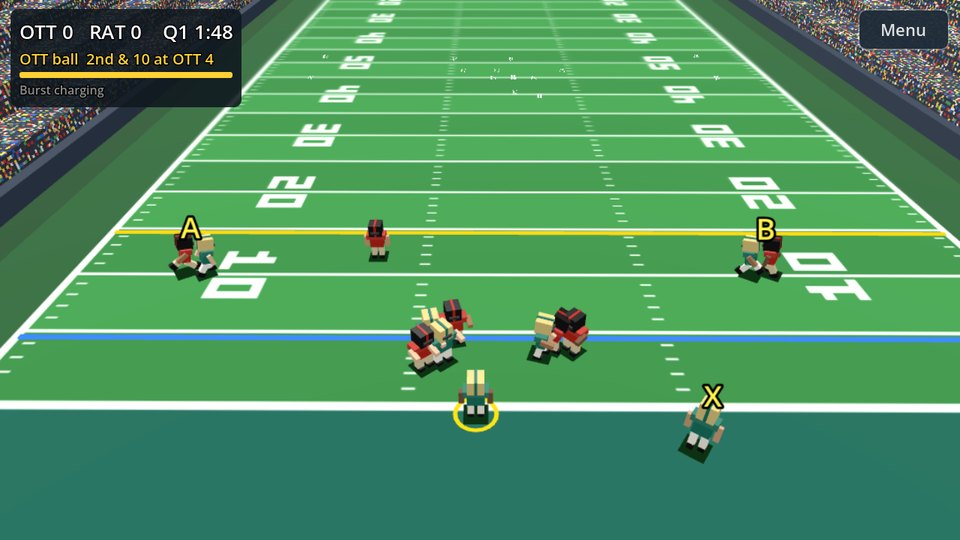
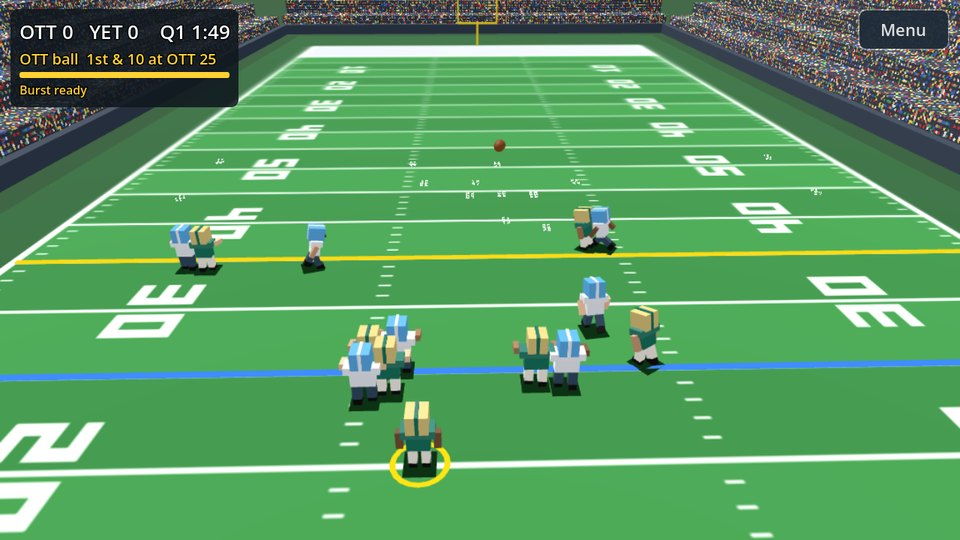
Tiny Titans Football v0.3.3: fresh card picture (G2.7)
Claude-Session: https://claude.ai/code/session_0117TTYCw6mJg1F1eJZXYvMV

diff --git a/index.html b/index.html
@@ -88,7 +88,7 @@ footer{margin-top:40px;color:var(--soft);font-size:14px;text-align:center}
 </article>
 
 <article class="card" data-repo="tiny-titans-football">
-<a class="shot" href="tiny-titans-football/"><img src="images/tiny-titans-football.jpg" alt="Tiny Titans Football: a 7 on 7 pass play with receivers marked A, B and X" width="960" height="540" loading="lazy"></a>
+<a class="shot" href="tiny-titans-football/"><img src="images/tiny-titans-football.jpg" alt="Tiny Titans Football: a 7 on 7 pass in the air over the middle" width="960" height="540" loading="lazy"></a>
 <div class="body">
 <div class="top"><h2><a href="tiny-titans-football/">Tiny Titans Football</a></h2><span class="tag">Arcade 7 on 7 and 11 on 11 football</span></div>
 <p class="desc">Call a play, then run it. Play 7 on 7 or 11 on 11, one game or a full season, in five save slots. Throw to your receivers, run the option and hit the burst to break away. Plays with touch, a keyboard or an Xbox controller.</p>
